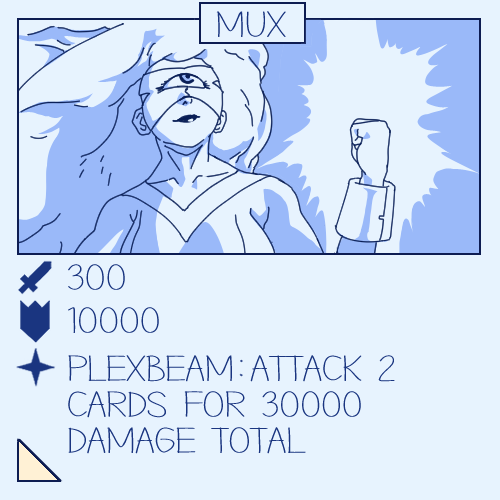
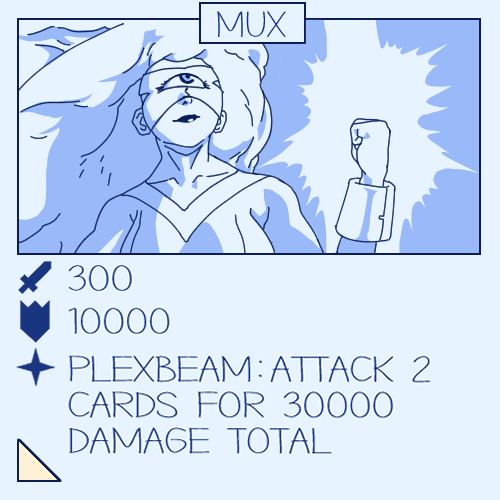
up

Changed region(s): [[0.12, 0.51, 0.81, 0.93], [0.81, 0.69, 0.87, 0.78]]

diff --git a/src/components/DashBoredCards.jsx b/src/components/DashBoredCards.jsx
@@ -62,7 +62,7 @@ export const DashBoredCards = () => {
     
     const generateRandomCard = async () => {
         // amounts: rarity from 1 -> 5
-        let amounts = [8,8,7,6,5]
+        let amounts = [9,8,7,6,5]
         let randomCardNumber;
         const randomRarityNumber = Math.floor(Math.random() * 10000) + 1;
         let rarity;
